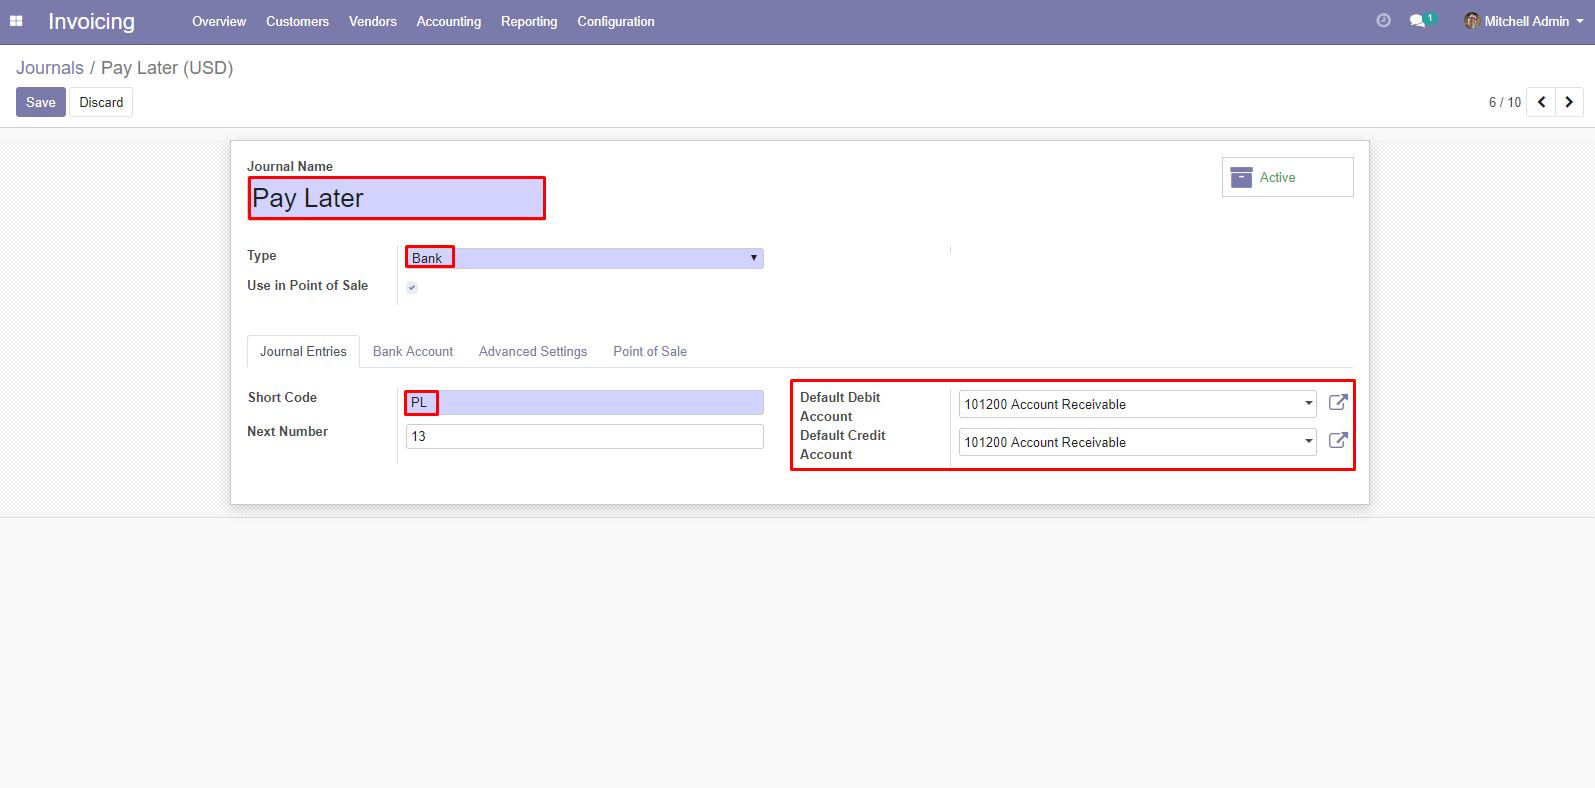
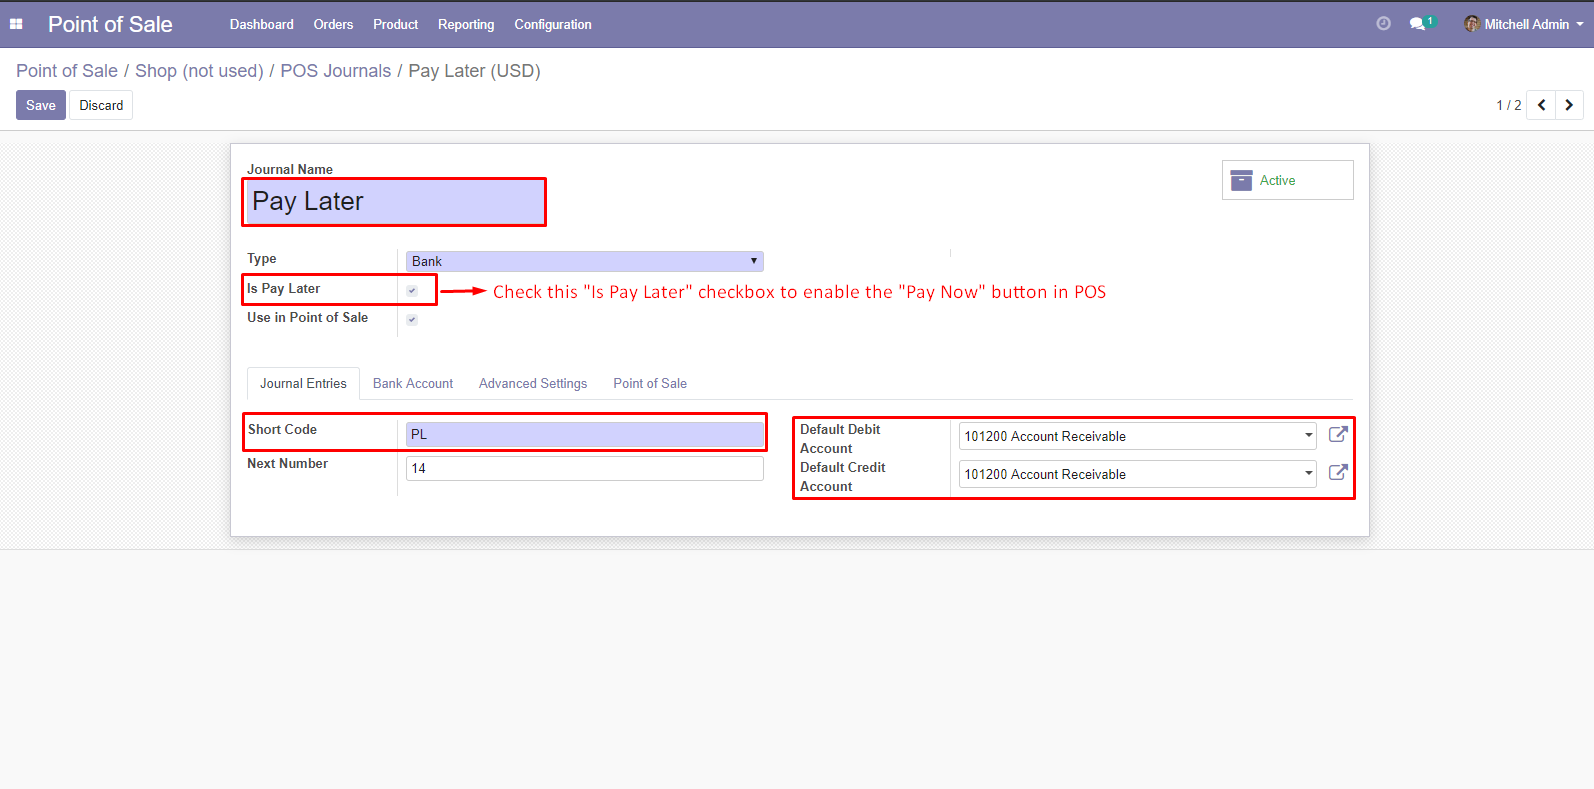
removed hard coded paylater journal name added is_pay_later checkbox in journal

Changed region(s): [[0.123, 0.1523, 0.8607, 0.7005], [0.0, 0.0, 1.0, 0.1523], [0.9222, 0.1218, 1.0, 0.1523]]

diff --git a/skit_addons/skit_pay_later/static/description/index.html b/skit_addons/skit_pay_later/static/description/index.html
@@ -20,6 +20,7 @@
         	<h3 class="oe_slogan" style="font-size: 1.3em; line-height: 2em; opacity:unset !important">Go to "Accounting" menu in that click on "Journal" sub menu.<br></br>Enter the required fields. Note:The Default Credit/Debit Account must be same.<br>If Default Credit/Debit Account is not display, Go to Setting->Users & Companies->Enable "Show Full Accounting Features".<br></br>Because of "Invoice" not be in the state of Paid.After that Create POS.</h3>
         </div>
         <div>
+        	<h4 style="color: red; margin-left:50px;margin-right:50px">Note: check the "Is Pay Later" checkbox to enable the "Pay Now" button in POS. If is not checked you cannot make a payment.</h4>
             <img class="img-border img-responsive thumbnail oe_picture oe_gif" src="journal.png" />
         </div>
     </div>

diff --git a/skit_addons/skit_pay_later/static/src/js/pay_later.js b/skit_addons/skit_pay_later/static/src/js/pay_later.js
@@ -416,7 +416,6 @@ PaymentScreenWidget.include({
         for (var i = 0; i < plines.length; i++) {
         	var payment_name = plines[i].name;
         	var client = order.get_client();
-        	if(payment_name.match('Pay Later')){
         		if(!client){
         			this.gui.show_popup('confirm',{
         				'title': _t('Please select the Customer'),
@@ -427,7 +426,6 @@ PaymentScreenWidget.include({
         			});
         			return false;
         		}
-        	}
             if (plines[i].get_type() === 'bank' && plines[i].get_amount() < 0) {
                 this.gui.show_popup('error',{
                     'message': _t('Negative Bank Payment'),

diff --git a/skit_addons/skit_pay_later/models/pay_later.py b/skit_addons/skit_pay_later/models/pay_later.py
@@ -1,8 +1,37 @@
 # -*- coding: utf-8 -*-
 import logging
-from odoo import api, models, fields
+from odoo import api, models, fields, _
+from odoo.exceptions import UserError
 
 _logger = logging.getLogger(__name__)
+
+
+class account_journal(models.Model):
+    _inherit = "account.journal"
+    _description = "Checkbox for Pay Later"
+
+    is_pay_later = fields.Boolean('Is Pay Later', default=False)
+
+    @api.model
+    def create(self, vals):
+        """ Create New Records """
+        account_ids = self.search([])
+        for account in account_ids:
+            if account.is_pay_later and vals['is_pay_later'] is True:
+                raise UserError(_('Pay Later is already selected for another journal. You cannot use it for multiple journals.'))
+        res = super(account_journal, self).create(vals)
+        return res
+
+    @api.multi
+    def write(self, vals):
+        """ Update Records """
+
+        account_ids = self.search([])
+        for account in account_ids:
+            if account.is_pay_later and vals['is_pay_later'] is True:
+                raise UserError(_('Pay Later is already selected for another journal. You cannot use it for multiple journals.'))
+        res = super(account_journal, self).write(vals)
+        return res
 
 
 class Skit_PosOrder(models.Model):
@@ -136,11 +165,11 @@ class Skit_PosOrder(models.Model):
             paid_amount2 = 0
             if posorder:
                 if posorder.statement_ids:
-                    paid_amount1 = sum([x.amount for x in posorder.statement_ids if not x.journal_id.name in ('Pay Later')])
+                    paid_amount1 = sum([x.amount for x in posorder.statement_ids if not x.journal_id.is_pay_later])
                 account_payment = self.env['account.payment'].sudo().search(
                                        [('invoice_ids', 'in', invoice.id)])
                 if account_payment:
-                    paid_amount2 = sum([x.amount for x in account_payment if not x.journal_id.name in ('Pay Later')])
+                    paid_amount2 = sum([x.amount for x in account_payment if not x.journal_id.is_pay_later])
                 paid_amount = paid_amount1 + paid_amount2
                 dateinvoice = fields.Date.from_string(invoice.date_invoice)
                 diff = (invoice.amount_total - paid_amount)

diff --git a/skit_addons/skit_pay_later/report/pos_invoice_report.py b/skit_addons/skit_pay_later/report/pos_invoice_report.py
@@ -81,11 +81,11 @@ class AccountInvoice_Report(models.Model):
             paid_amount1 = 0
             paid_amount2 = 0
             if order.statement_ids:
-                paid_amount1 = sum([x.amount for x in order.statement_ids if not x.journal_id.name in ('Pay Later')])
+                paid_amount1 = sum([x.amount for x in order.statement_ids if not x.journal_id.is_pay_later])
             account_payment = self.env['account.payment'].sudo().search([
                                     ('invoice_ids', 'in', current_invoice.id)])
             if account_payment:
-                paid_amount2 = sum([x.amount for x in account_payment if not x.journal_id.name in ('Pay Later')])
+                paid_amount2 = sum([x.amount for x in account_payment if not x.journal_id.is_pay_later])
             paid_amount = paid_amount1 + paid_amount2
         else:
             for x in current_invoice.payment_move_line_ids:

diff --git a/skit_addons/skit_pay_later/__manifest__.py b/skit_addons/skit_pay_later/__manifest__.py
@@ -14,6 +14,7 @@
                 'account', 'sale_management'],
     'data': [
         'views/pay_later_template.xml',
+        'views/account_view.xml',
         'report/pay_later_report.xml',
     ],
     'qweb': ['static/src/xml/pay_later.xml'],
